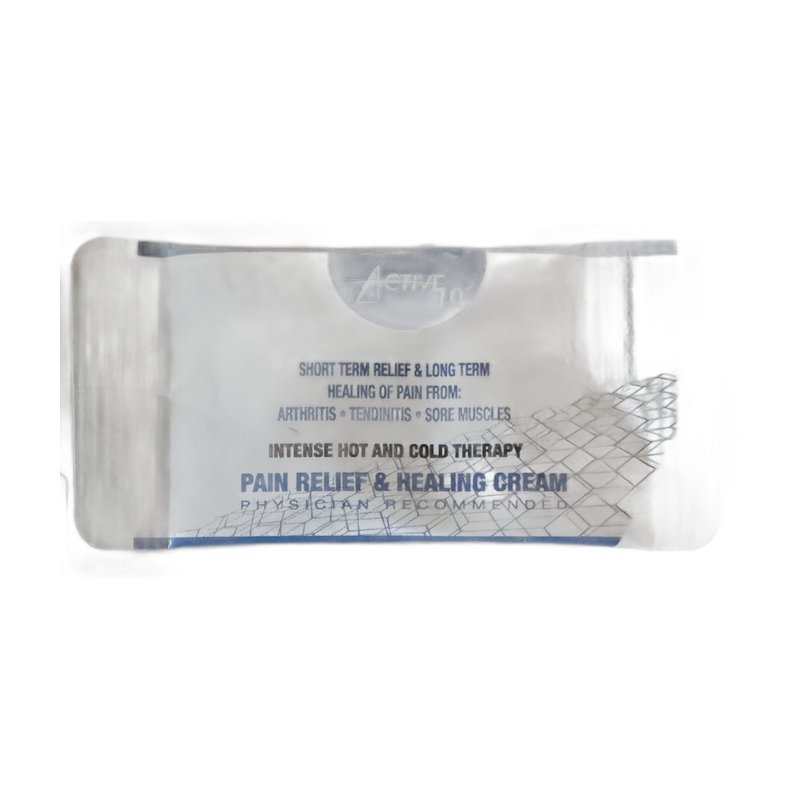
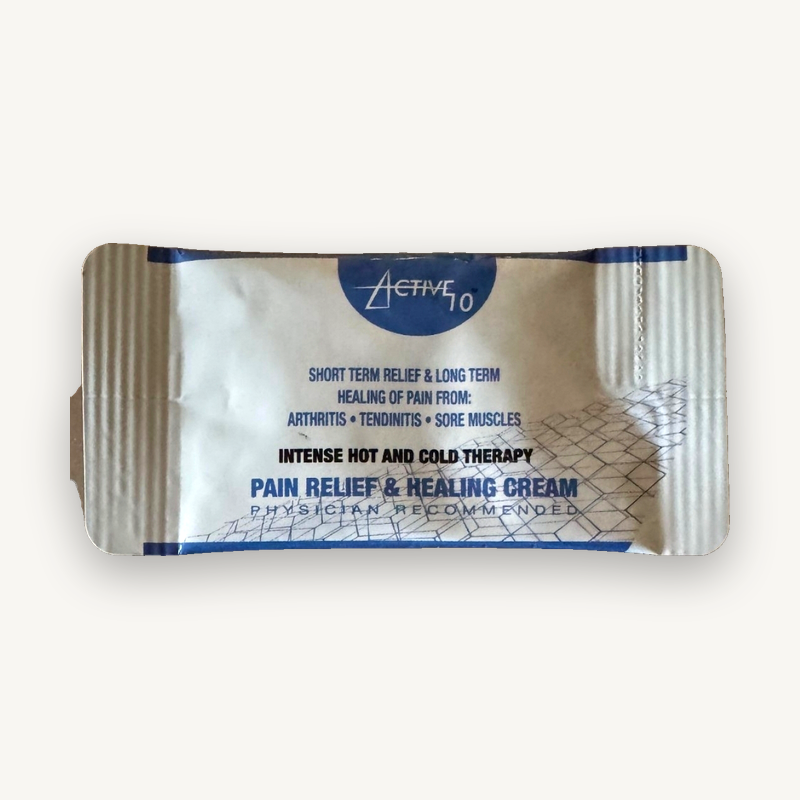
Improve sample-packet photos: birefnet segmentation + soft shadow

diff --git a/scripts/process-sample-images.py b/scripts/process-sample-images.py
@@ -1,11 +1,14 @@
-"""Clean up sample-packet photos: remove background, square-crop on white, optimize."""
+"""Clean up sample-packet photos: remove background, add soft shadow, off-white canvas."""
 from pathlib import Path
-from PIL import Image, ImageOps
+from PIL import Image, ImageOps, ImageFilter, ImageEnhance, ImageChops
 from rembg import remove, new_session
 
 CANVAS = 800
-PADDING = 60
-BG = (255, 255, 255, 255)
+PADDING = 70
+BG_COLOR = (248, 246, 242)  # warm off-white so the white packet pops
+SHADOW_OFFSET = (0, 18)
+SHADOW_BLUR = 22
+SHADOW_OPACITY = 90  # 0-255
 
 INPUTS = [
     (Path(r"C:\Users\darri\Downloads\tempFileForShare_20260505-212007.jpg"),
@@ -14,33 +17,51 @@ INPUTS = [
      Path(r"C:\Users\darri\active10-wholesale\public\products\sample-plus.png")),
 ]
 
-session = new_session("isnet-general-use")
+session = new_session("birefnet-general")
 
 for src, dst in INPUTS:
     print(f"Processing {src.name} -> {dst.name}")
-    raw = Image.open(src).convert("RGBA")
-    raw = ImageOps.exif_transpose(raw)
-    cut = remove(raw, session=session, alpha_matting=True,
-                 alpha_matting_foreground_threshold=240,
-                 alpha_matting_background_threshold=20,
-                 alpha_matting_erode_size=10)
+    raw = ImageOps.exif_transpose(Image.open(src).convert("RGBA"))
+
+    # Plain segmentation (no alpha matting — that's for hair/fur, destroys white objects)
+    cut = remove(raw, session=session, post_process_mask=True)
 
     bbox = cut.getbbox()
     if bbox:
         cut = cut.crop(bbox)
 
-    # Scale to fit canvas with padding
+    # Boost contrast/saturation a touch so the print stands out
+    rgb = cut.convert("RGB")
+    rgb = ImageEnhance.Contrast(rgb).enhance(1.18)
+    rgb = ImageEnhance.Color(rgb).enhance(1.10)
+    rgb = ImageEnhance.Sharpness(rgb).enhance(1.30)
+    cut = Image.merge("RGBA", (*rgb.split(), cut.split()[3]))
+
+    # Scale to fit canvas
     target = CANVAS - 2 * PADDING
     cut.thumbnail((target, target), Image.LANCZOS)
 
-    canvas = Image.new("RGBA", (CANVAS, CANVAS), BG)
-    x = (CANVAS - cut.width) // 2
-    y = (CANVAS - cut.height) // 2
-    canvas.paste(cut, (x, y), cut)
+    # Build canvas with warm off-white background
+    canvas = Image.new("RGBA", (CANVAS, CANVAS), BG_COLOR + (255,))
 
-    flat = Image.new("RGB", canvas.size, (255, 255, 255))
-    flat.paste(canvas, mask=canvas.split()[3])
-    flat.save(dst, "PNG", optimize=True)
+    # Drop shadow: alpha → grey blob → blur → paste under packet
+    alpha = cut.split()[3]
+    shadow_layer = Image.new("RGBA", (CANVAS, CANVAS), (0, 0, 0, 0))
+    shadow_mask = Image.new("L", (CANVAS, CANVAS), 0)
+    sx = (CANVAS - cut.width) // 2 + SHADOW_OFFSET[0]
+    sy = (CANVAS - cut.height) // 2 + SHADOW_OFFSET[1]
+    shadow_mask.paste(alpha, (sx, sy))
+    shadow_mask = shadow_mask.filter(ImageFilter.GaussianBlur(SHADOW_BLUR))
+    shadow_mask = shadow_mask.point(lambda v: int(v * SHADOW_OPACITY / 255))
+    shadow_layer.paste((30, 30, 30, 255), (0, 0), shadow_mask)
+    canvas = Image.alpha_composite(canvas, shadow_layer)
+
+    # Paste packet on top
+    px = (CANVAS - cut.width) // 2
+    py = (CANVAS - cut.height) // 2
+    canvas.paste(cut, (px, py), cut)
+
+    canvas.convert("RGB").save(dst, "PNG", optimize=True)
     print(f"  saved: {dst} ({dst.stat().st_size // 1024} KB)")
 
 print("Done.")
